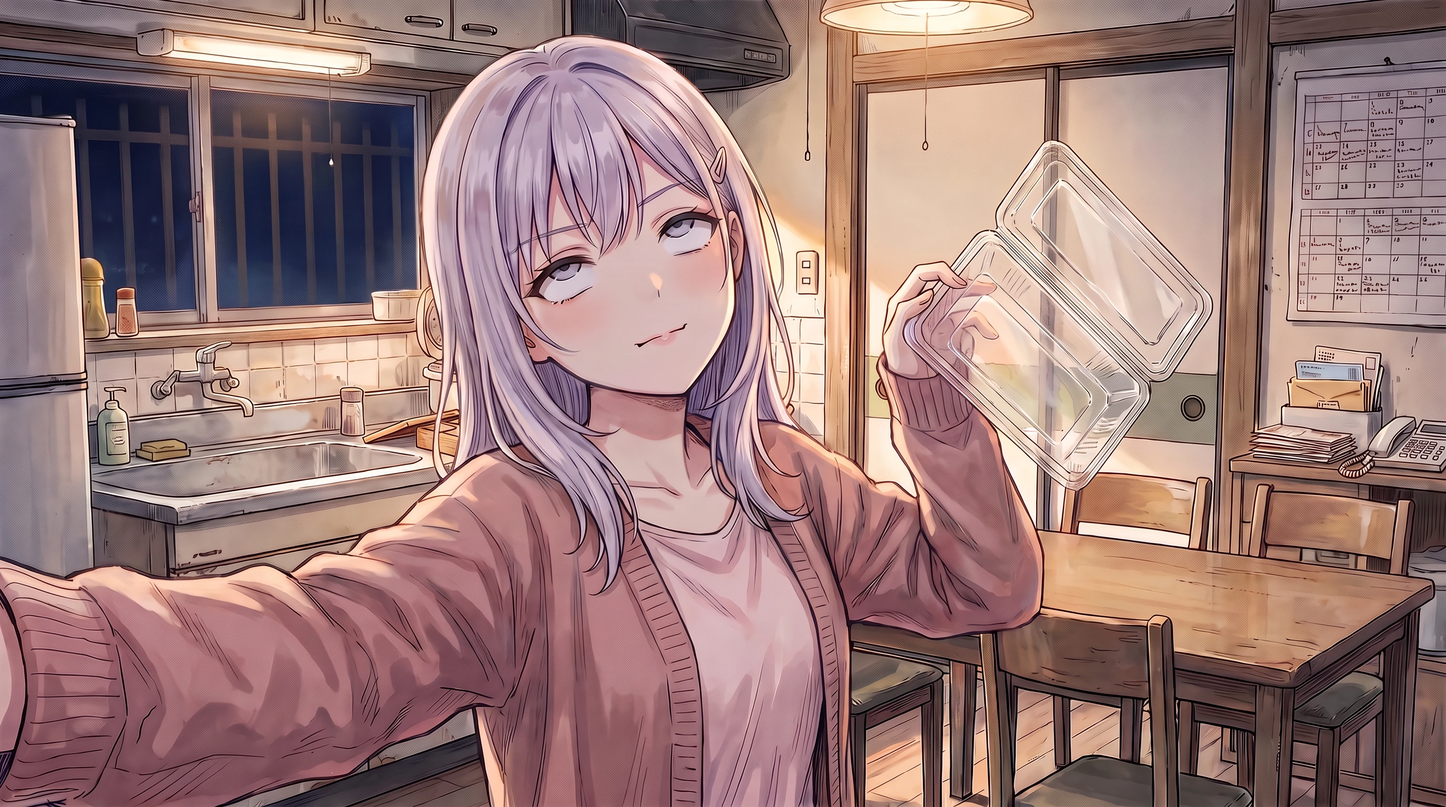
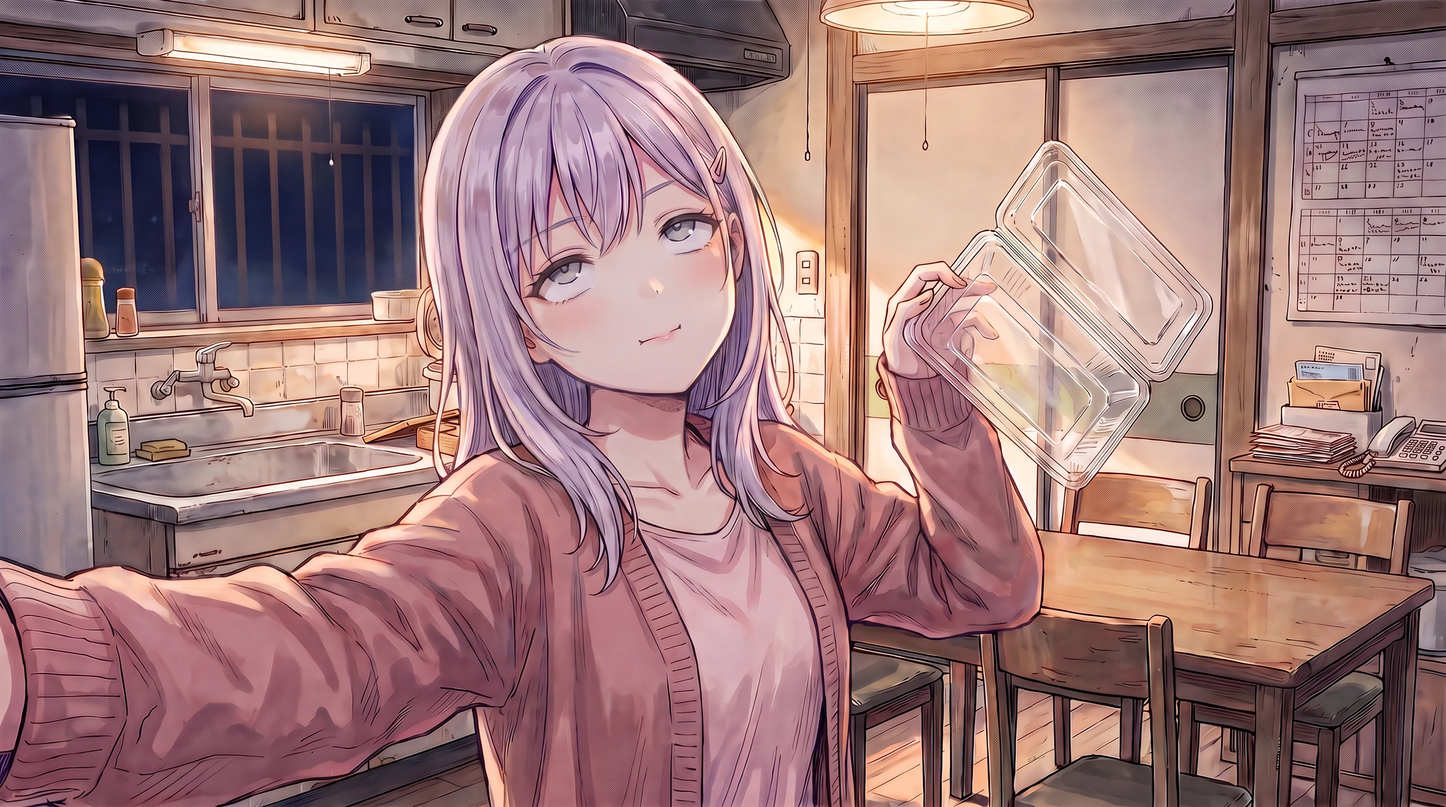
Ch3 punch list (Nov 21): fixes from the independent check (callbacks restated in narration, c2_0009 grammar, younger Akane in the selfie, engine: landscape-only lift fill, living-still framing on show); group_line_mix.py
Claude-Session: https://claude.ai/code/session_019tMdHXKyqqaeex1foiyRkf

diff --git a/v2/index.html b/v2/index.html
@@ -51,8 +51,9 @@ html,body{height:100%;margin:0;background:var(--ink);color:var(--paper);overflow
    off-center (--cgx). The strip the lift uncovers (under the text box, bare only while a CG first comes up) is filled with the CG's own
    bottom-row colors (CG_FRAME f), and the picture's bottom edge feathers into it */
 #cg .bgimg,#cg .live{object-position:var(--cgx,50%) 50%;transform:translateY(calc(-1 * var(--cgl,0%)))}
-#cg .lifted{-webkit-mask-image:linear-gradient(to bottom,#000 94%,transparent);mask-image:linear-gradient(to bottom,#000 94%,transparent)}
-.cgfill.lift{display:block;inset:0;filter:none}
+@media (orientation:landscape){
+  #cg .lifted{-webkit-mask-image:linear-gradient(to bottom,#000 94%,transparent);mask-image:linear-gradient(to bottom,#000 94%,transparent)}
+  .cgfill.lift{display:block;inset:0;filter:none} }
 @media (orientation:portrait){ #cg .bgimg, #cg .live{object-fit:contain;object-position:50% 36%;transform:none} .cgfill{display:block} }
 /* short animated moments (canon §2): played once over the CG layer, then the still holds */
 #animV{position:absolute;inset:0;width:100%;height:100%;object-fit:cover;opacity:0;pointer-events:none;z-index:6}
@@ -620,11 +621,10 @@ function setBg(name, tr){
 const cgLive=$('#cgLive');
 function liveOff(){ cgLive.classList.remove('on'); try{cgLive.pause()}catch(e){} cgLive.removeAttribute('src'); try{cgLive.load()}catch(e){} }
 function liveOn(name, delay, cut){
-  frameCg(cgLive, name);
   if(cut){ cgLive.style.transition='none'; } liveOff(); void cgLive.offsetWidth; cgLive.style.transition='';   // a cut drops the old living still at once (Safari kept its last frame through the fade)
   if(!LIVE[name] || skipOn) return; const tok=setCg.tok;
   cgLive.src=LIVE[name]; cgLive.muted=true;
-  cgLive.onplaying=()=>{ if(tok===setCg.tok) setTimeout(()=>{ if(tok===setCg.tok) cgLive.classList.add('on'); }, delay); };
+  cgLive.onplaying=()=>{ if(tok===setCg.tok) setTimeout(()=>{ if(tok===setCg.tok){ frameCg(cgLive, name); cgLive.classList.add('on'); } }, delay); };   // framed only as it shows, so a fading-out still (Safari keeps its last frame) never jumps to the next CG's framing
   const p=cgLive.play(); if(p&&p.catch) p.catch(()=>{});      // if autoplay is refused, the still simply stays
 }
 const cgFills=[...document.querySelectorAll('#cg .cgfill')];   // portrait: each CG image has its own blurred fill and fades with it

diff --git a/production/pipeline/vn/group_line_mix.py b/production/pipeline/vn/group_line_mix.py
@@ -1,0 +1,71 @@
+"""Mix a line the whole cast says together (speaker "all", tag "Everyone") from one take per voice.
+
+Each input is a voice's take already packed the usual way (voice_pack.py: trimmed, pitched per §7, leveled), one file per
+voice. Every take's onset (first point where its envelope passes -40 dBFS) is aligned to --onset seconds, shifted by that
+voice's lead, scaled by its gain, then the sum is leveled to --level dBFS (speech RMS, like voice_pack), peak-limited to
+-1 dBFS, faded (10 ms in, 60 ms out) and written as a 64 kbps, 24 kHz mono MP3 like the other voice files.
+
+Ch3 c3_0415 "Itadakimasu!" (Nov 21) was made with:
+  python3 group_line_mix.py OUT.mp3 mio=mio.mp3 natsuki=natsuki.mp3 emi=emi.mp3 nanoha=nanoha.mp3 akane=akane.mp3 \
+      kohei=kohei.mp3 genji=genji.mp3 --gain mio=0,natsuki=2,emi=-2.5 --default-gain -3 --lead mio=0.09
+  (Mio a hair early, Natsuki loudest; the others a little under). Pack the result into the chapter's clip with voice_patch.py.
+  The shipped c3_0415 was mixed inline the same way and then trimmed tighter by hand (1.66 s); this script, written
+  afterward from that recipe, matches its balance and level (about -21 dB) but leaves a longer tail (about 2.3 s), so
+  check the tail by ear before shipping a new one. The seven takes are production/pilot-v2/voice/takes/take_435..441.
+"""
+import argparse, subprocess, sys
+import numpy as np
+
+SR = 24000
+
+
+def load(path):
+    raw = subprocess.run(["ffmpeg", "-v", "error", "-i", path, "-f", "f32le", "-ac", "1", "-ar", str(SR), "-"],
+                         capture_output=True, check=True).stdout
+    return np.frombuffer(raw, dtype=np.float32).copy()
+
+
+def onset(x, thresh_db=-40.0, win=240):
+    env = np.sqrt(np.convolve(x * x, np.ones(win) / win, mode="same"))
+    idx = np.nonzero(env > 10 ** (thresh_db / 20))[0]
+    return int(idx[0]) if len(idx) else 0
+
+
+def kv(s, cast=float):
+    return {k: cast(v) for k, v in (p.split("=") for p in s.split(",") if p)} if s else {}
+
+
+ap = argparse.ArgumentParser()
+ap.add_argument("out"); ap.add_argument("takes", nargs="+", help="voice=path")
+ap.add_argument("--onset", type=float, default=0.15); ap.add_argument("--level", type=float, default=-21.0)
+ap.add_argument("--gain", default="", help="voice=dB,..."); ap.add_argument("--default-gain", type=float, default=0.0)
+ap.add_argument("--lead", default="", help="voice=seconds early,...")
+a = ap.parse_args()
+gains, leads = kv(a.gain), kv(a.lead)
+tracks = []
+for t in a.takes:
+    name, path = t.split("=", 1)
+    x = load(path)
+    start = int(round((a.onset - leads.get(name, 0.0)) * SR)) - onset(x)
+    tracks.append((name, x * 10 ** (gains.get(name, a.default_gain) / 20), start))
+lo = min(s for _, _, s in tracks)
+if lo < 0:   # a take with a long lead-in: shift everything right
+    tracks = [(n, x, s - lo) for n, x, s in tracks]
+mix = np.zeros(max(s + len(x) for _, x, s in tracks), dtype=np.float64)
+for _, x, s in tracks:
+    mix[s:s + len(x)] += x
+env = np.sqrt(np.convolve(mix * mix, np.ones(480) / 480, mode="same"))
+speech = mix[env > 10 ** (-45 / 20)]
+rms = np.sqrt(np.mean(speech ** 2)) if len(speech) else 1e-9
+mix *= 10 ** (a.level / 20) / rms
+ceil = 10 ** (-1 / 20)
+mix = np.where(np.abs(mix) > ceil * 0.8, np.sign(mix) * (ceil * 0.8 + (ceil * 0.2) * np.tanh((np.abs(mix) - ceil * 0.8) / (ceil * 0.2))), mix)
+env = np.sqrt(np.convolve(mix * mix, np.ones(480) / 480, mode="same"))
+loud = np.nonzero(env > 10 ** (-45 / 20))[0]
+if len(loud):   # trim the tail: 80 ms after the last voice ends
+    mix = mix[:min(len(mix), loud[-1] + int(0.08 * SR))]
+fi, fo = int(0.01 * SR), int(0.06 * SR)
+mix[:fi] *= np.linspace(0, 1, fi); mix[-fo:] *= np.linspace(1, 0, fo)
+subprocess.run(["ffmpeg", "-v", "error", "-y", "-f", "f32le", "-ar", str(SR), "-ac", "1", "-i", "-", "-b:a", "64k", "-ar", str(SR), "-ac", "1", a.out],
+               input=mix.astype(np.float32).tobytes(), check=True)
+print(f"{a.out}: {len(mix) / SR:.2f} s, {len(tracks)} voices", file=sys.stderr)

diff --git a/production/pilot-v2/art/prompts.md b/production/pilot-v2/art/prompts.md
@@ -155,4 +155,4 @@ All `fal-ai/nano-banana-pro/edit` unless noted; cutouts `fal-ai/bria/background/
 - **Backgrounds:** `bg_shrine_steps` (**771**, styled on the shipped tree plate and `refs/locations/houses-street.png`) and `bg_tachibana_living` (**781**, styled on the Fujisawa living room and kitchen plates) [P]; the others are shipped plates.
 - **CGs:** `cg_window` = redraw **832** of a crop of seed 802 (refs `refs/locations/window-night-from-kohei.png`, `refs/handoff/Nanoha-Pajamas-Bun.png`, her school sprite; Nanoha inside her lit window, pajamas, bun and scrunchie, holding Usagi-san up under her chin, flower paintings with no text); `cg_window_sill` = edit **842** of 832 (chin on folded arms, rabbit on the sill corner with its back to us); `cg_window_sill_turn` = edit **852** of 842 (the rabbit turned toward the curtain; the model wouldn't face it to the frame, 853 also failed), pasted back over 842 inside x .10–.255, y .57–.965 with `region_composite.py` (T 25, grow 44, feather 16), so only the rabbit changes; `cg_tree_natsuki` = **811** (Natsuki from behind with the camera up at the Ōzakura, on the shipped tree plate); `cg_lunch` = **822** (POV, Kōhei's hands together; Emi, Nanoha, Akane, Mio, Natsuki, Genji around the table, the food item for item); `cg_tree_light` = the shipped tree plate with one point of light drawn in code (`art/ch3/tree_light.py`; after the cold read moved to just under the low branch at the trunk, cool white, so it can't read as the sun).
 - **Living stills** (Kling v3 Pro, 4 s, start = end = the master, audio off; trimmed to 96 frames, 1920×1072, crf 23): `cg_window_sill` (curtains stir; her face held on the first frame with `live_hold.py --oval 0.315,0.62,0.075,0.19` because she closed her eyes mid-loop), `cg_window_sill_turn` (the same loop, face and rabbit held on the turn master), `cg_tree_natsuki` (petals, ponytail; no hold), `cg_lunch` (steam; all six faces held with ovals, feather 22).
-- **Nov 21 (the author's punch list):** Akane home's cardigan is **dusty rose** (edit **911** of akane711: "change ONLY the color of her knit cardigan… soft dusty-rose pink… keep everything else pixel-identical"; bria cutout; `build_sprites.py` rebuilt only akane_home; face windows `faces.py h0.245 0.03 -0.03`). `cg_lunch` = **932** (refs: the Tachibana living room, then Genji, Emi, Nanoha, Akane, Mio, Natsuki track; "at the HEAD of the table, the far end, facing the viewer in the center… the grandfather"; right side near to far Natsuki, Mio, Akane; left Emi, Nanoha, an empty cushion; Kōhei's hands only); its living still is dropped (the old one was nearly still). `cg_akane_selfie` = **942** (refs akane_home_smile, bg_fujisawa_kitchen: a phone selfie, arm out, the empty container held up, eyes rolled, flat smirk, "no phone interface") → **961** (night outside the window) → **963** (961 put a long-haired figure's reflection in the dark window; removed). `cg_akane_selfie_close` = **951** (container and lid with a sticky note of scribbles and a doodle heart; a cream cable-knit sleeve, ref nanoha_home_smile) → **971** (the arm moved to come in from the top right, so it clears the text box and the 4:3 crop).
+- **Nov 21 (the author's punch list):** Akane home's cardigan is **dusty rose** (edit **911** of akane711: "change ONLY the color of her knit cardigan… soft dusty-rose pink… keep everything else pixel-identical"; bria cutout; `build_sprites.py` rebuilt only akane_home; face windows `faces.py h0.245 0.03 -0.03`). `cg_lunch` = **932** (refs: the Tachibana living room, then Genji, Emi, Nanoha, Akane, Mio, Natsuki track; "at the HEAD of the table, the far end, facing the viewer in the center… the grandfather"; right side near to far Natsuki, Mio, Akane; left Emi, Nanoha, an empty cushion; Kōhei's hands only); its living still is dropped (the old one was nearly still). `cg_akane_selfie` = **942** (refs akane_home_smile, bg_fujisawa_kitchen: a phone selfie, arm out, the empty container held up, eyes rolled, flat smirk, "no phone interface") → **961** (night outside the window) → **963** (961 put a long-haired figure's reflection in the dark window; removed) → **981** (her face rounder and softer from her sprite: the independent check said she read older than 14). `cg_akane_selfie_close` = **951** (container and lid with a sticky note of scribbles and a doodle heart; a cream cable-knit sleeve, ref nanoha_home_smile) → **971** (the arm moved to come in from the top right, so it clears the text box and the 4:3 crop).

diff --git a/production/pilot-v2/ledger.md b/production/pilot-v2/ledger.md
@@ -45,7 +45,7 @@ Rates checked Oct 17: NB2 edit $0.08/image, NB Pro edit $0.15/image, bria cutout
 | 11-01 | Ch3 CGs: the window sill (2), the turned rabbit after the cold read (3) (NB Pro 2K); living stills for the sill, the tree and lunch (Kling v3 Pro, 4 s ×3) | 8 | $2.43 |
 | 11-01 | Ch3 voices: 126 single-line takes and 8 retakes (Gemini TTS, ~47,000 characters with directions), 2 transcripts (Wizper, ~12 min) | 136 | $2.25 |
 | 11-02 | Ch3 window: Akane's illness and Dad's cancer said plainly (author), 5 single-line takes (Gemini TTS) and 1 transcript (Wizper) | 6 | $0.09 |
-| 11-21 | Ch3 punch list, art: Akane's home cardigan to dusty rose (NB Pro 2K ×2, 1 bria cutout); the lunch CG with Grandpa at the head of the table (NB Pro 2K ×2); Akane's eye-roll selfie (2 takes, a night edit, a clean-up edit) and the close-up with the sleeve (2 takes, 2 recompositions) (NB Pro 2K ×8) | 13 | $1.82 |
+| 11-21 | Ch3 punch list, art: Akane's home cardigan to dusty rose (NB Pro 2K ×2, 1 bria cutout); the lunch CG with Grandpa at the head of the table (NB Pro 2K ×2); Akane's eye-roll selfie (2 takes, a night edit, a clean-up edit, a younger face after the check; one more declined by the content filter, no output) and the close-up with the sleeve (2 takes, 2 recompositions) (NB Pro 2K ×9) | 14 | $1.97 |
 | 11-21 | Ch3 punch list, voices: 4 re-voiced lines and the seven voices of the group "Itadakimasu" (Gemini TTS ×11) and 1 transcript (Wizper) | 12 | $0.18 |
 
-**Total after Ch1: about $8.50 of $40.** Ch1 revision (Oct 18): about $4.80; running total about $13.30. Natsuki's new look (Oct 20, design pass and Ch1 art): about $3.70; running total about $17.00. Oct 24 batch (Natsuki's face A and new voice, the Ch1 punch list): about $4.70; running total about $21.70. Ch2 (Oct 24, art, voices and the first on-model fixes): about $15.30; running total about $37.00 (going over $40 is approved, Oct 24). Ch2 punch list (Oct 25): about $3.20; running total about $40.20. Nov 1 renames: $0.02. **Ch3 (Nov 1): about $9.10** (aim ~$10, stop at $15); running total about $49.30. Nov 2 lines: about $0.09; running total about $49.40. Ch3 punch list (Nov 21): about $2.00; running total about $51.40.
+**Total after Ch1: about $8.50 of $40.** Ch1 revision (Oct 18): about $4.80; running total about $13.30. Natsuki's new look (Oct 20, design pass and Ch1 art): about $3.70; running total about $17.00. Oct 24 batch (Natsuki's face A and new voice, the Ch1 punch list): about $4.70; running total about $21.70. Ch2 (Oct 24, art, voices and the first on-model fixes): about $15.30; running total about $37.00 (going over $40 is approved, Oct 24). Ch2 punch list (Oct 25): about $3.20; running total about $40.20. Nov 1 renames: $0.02. **Ch3 (Nov 1): about $9.10** (aim ~$10, stop at $15); running total about $49.30. Nov 2 lines: about $0.09; running total about $49.40. Ch3 punch list (Nov 21): about $2.15; running total about $51.55.

diff --git a/production/pilot-v2/art/jobs-ch3.md b/production/pilot-v2/art/jobs-ch3.md
@@ -36,3 +36,5 @@
 | 24 | 0 | cg_akane_selfie: night outside the window, edit of 942 | 961 | 01a200a5-43eb-7922-9114-91bb2a3b84e6 |
 | 24 | 1–2 | cg_akane_selfie_close: the arm moved to the top right, edits of 951 (971 kept) | 971–972 | 01a200a5-4425-7192-9b51-803aa071b8f3, 01a200a5-4425-7141-a514-038463bc5461 |
 | 25 | 0 | cg_akane_selfie: the night edit put a long-haired reflection in the window; removed (963 kept) | 963 | 01a200a7-923b-7a90-bd9e-923f01399d6f |
+| 26 | 0 | cg_akane_selfie: a younger, rounder face from her sprite (the independent check: she read older than 14), edit of 963 (kept) | 981 | 01a200bc-c81c-7fc0-9bc2-1574d2dab2fa |
+| 26 | 1 | the same edit, seed 982: declined by the model's content filter, no output, not resubmitted | 982 | 01a200bc-c857-7e12-a966-d23a9d23e1c8 |
